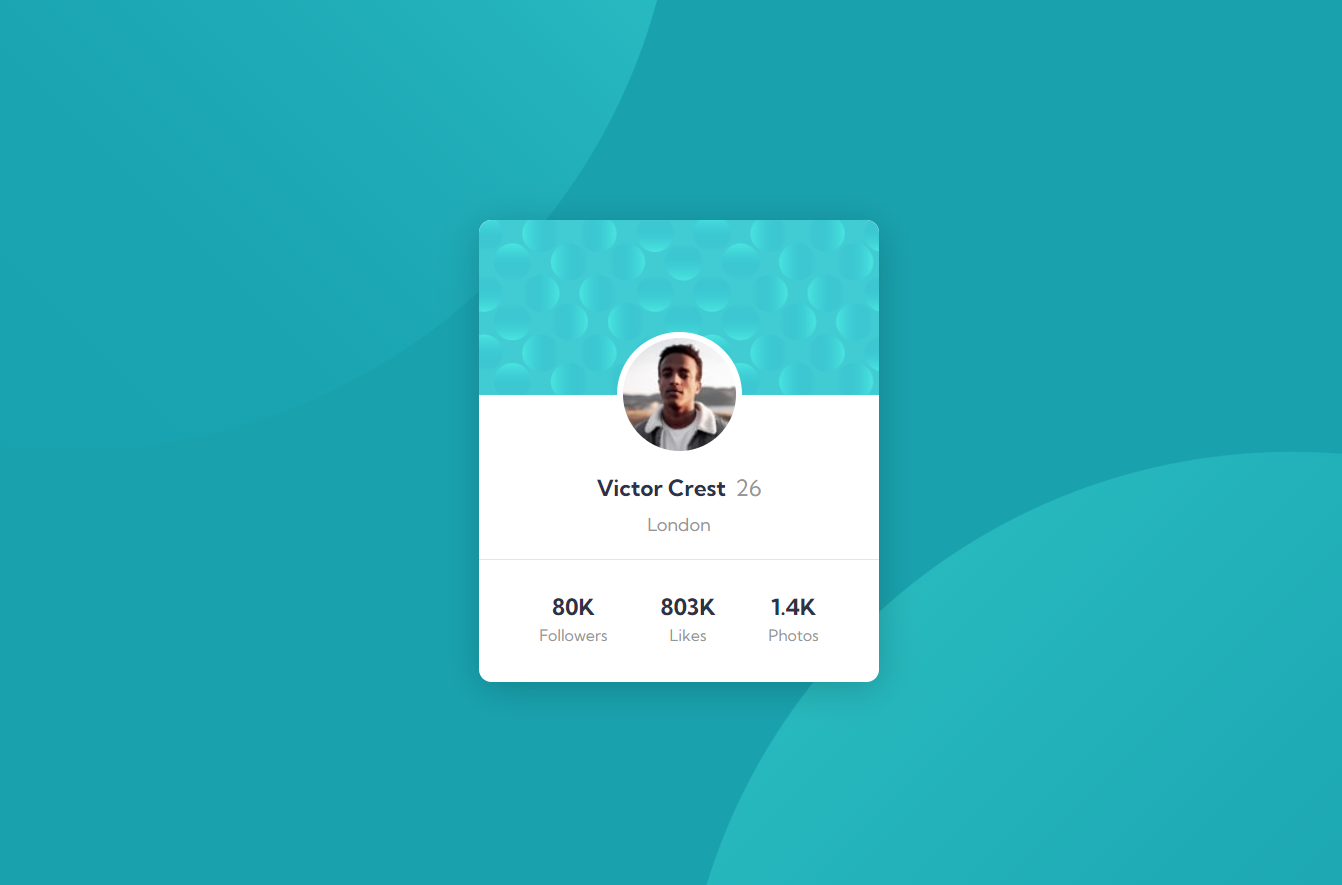
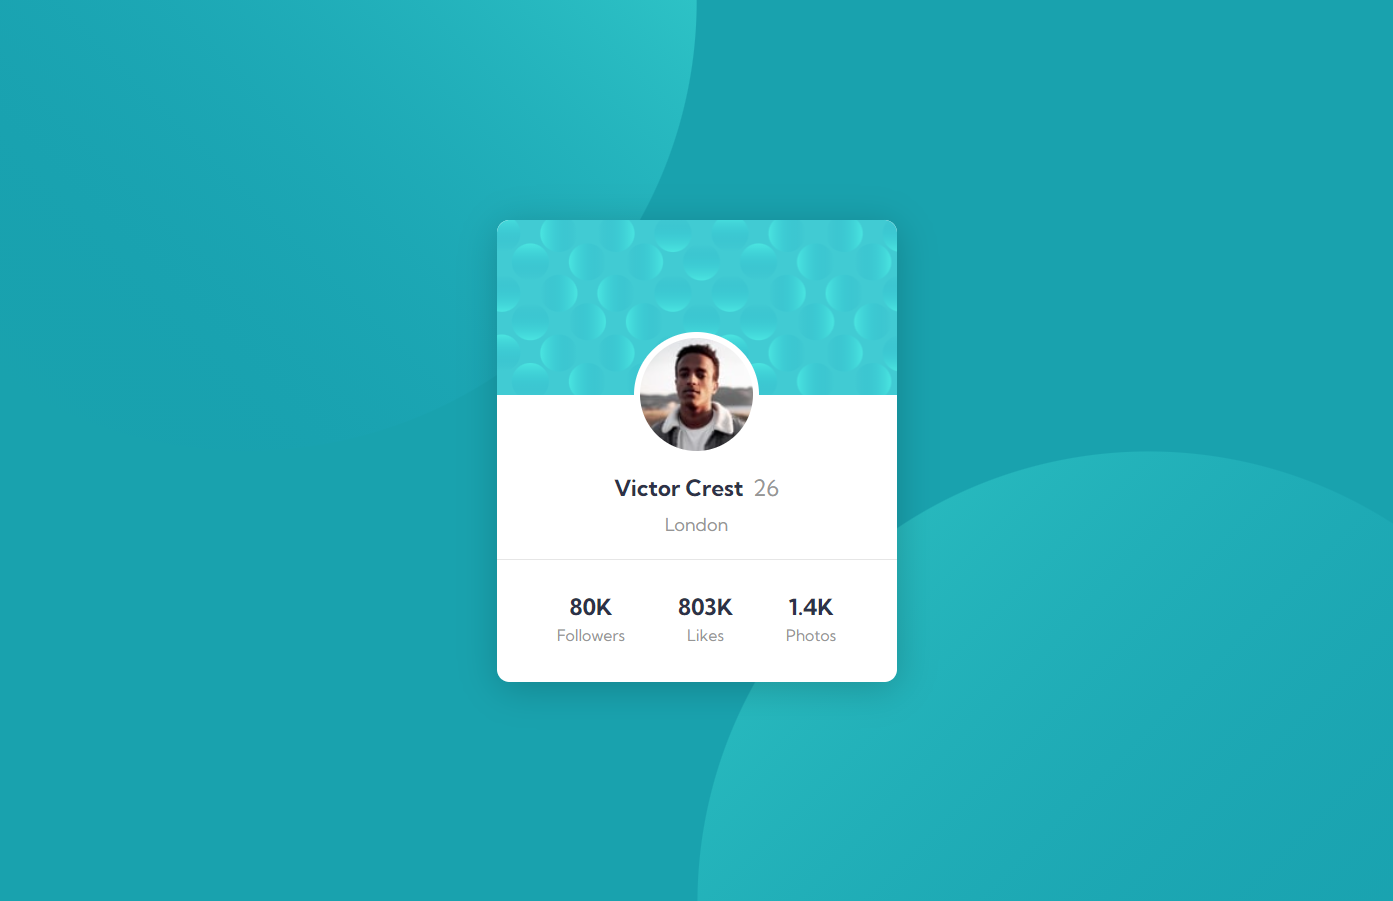
ajustes no background

Changed region(s): [[0.3361, 0.2441, 0.6721, 0.7932], [0.4583, 0.0, 0.5194, 0.122]]

diff --git a/frontend/style/style.css b/frontend/style/style.css
@@ -44,11 +44,12 @@ body {
 .background::before {
     content: '';
     position: absolute;
-    transform: translate(-50%, -50%);
     width: 100vw;
     height: 100vh;
     background-image: url(../assets/bg-pattern-top.svg);
+    background-size: 100vh;
     background-repeat: no-repeat;
+    background-position: bottom 50vh right 50vw;
 }
 
 .background::after {
@@ -56,10 +57,10 @@ body {
     position: absolute;
     width: 100vw;
     height: 100vh;
-    transform: translate(50%, 50%);
     background-image: url(../assets/bg-pattern-bottom.svg);
-    background-size: 100%;
-    background-repeat: no-repeat;
+    background-size: 100vh;
+    background-repeat: no-repeat;        
+    background-position: top 50vh left 50vw;
 }
 
 .card {
